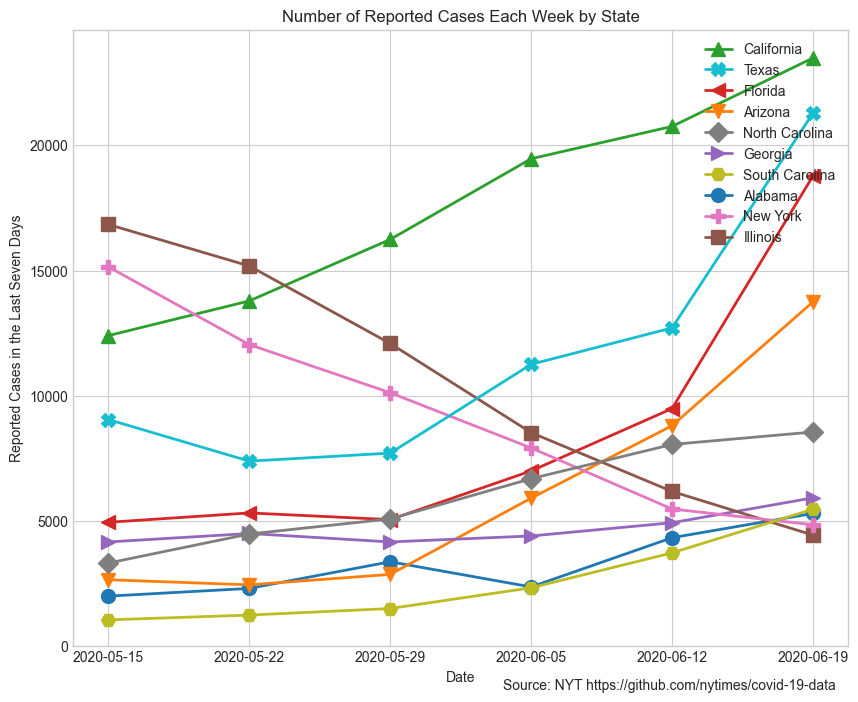
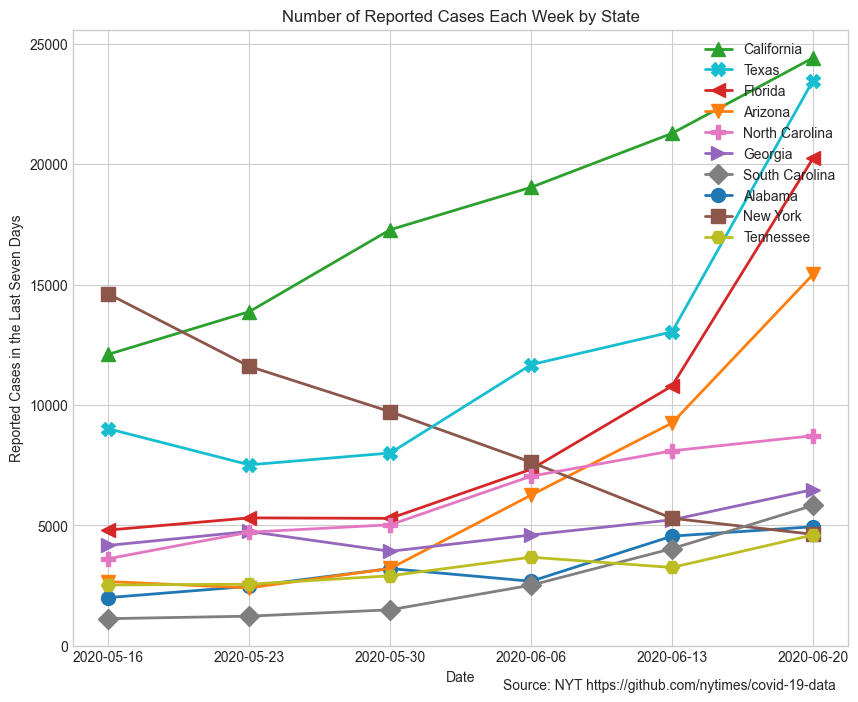
update with 6/20 data

diff --git a/README.md b/README.md
@@ -1,6 +1,6 @@
 # Coronavirus in the U.S.
 
-The plots below show the ten states and ten counties with the most reported cases of Covid-19 in the last seven days, as of June 19, 2020. 
+The plots below show the ten states and ten counties with the most reported cases of Covid-19 in the last seven days, as of June 20, 2020. 
 
 ## Reported cases by state
 
